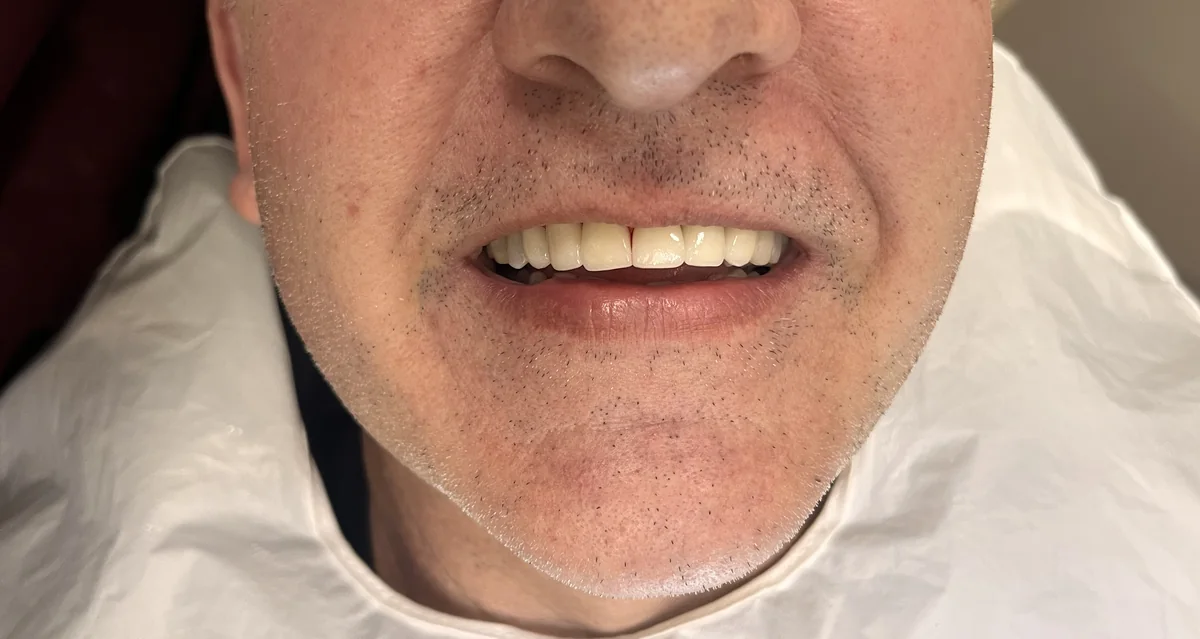
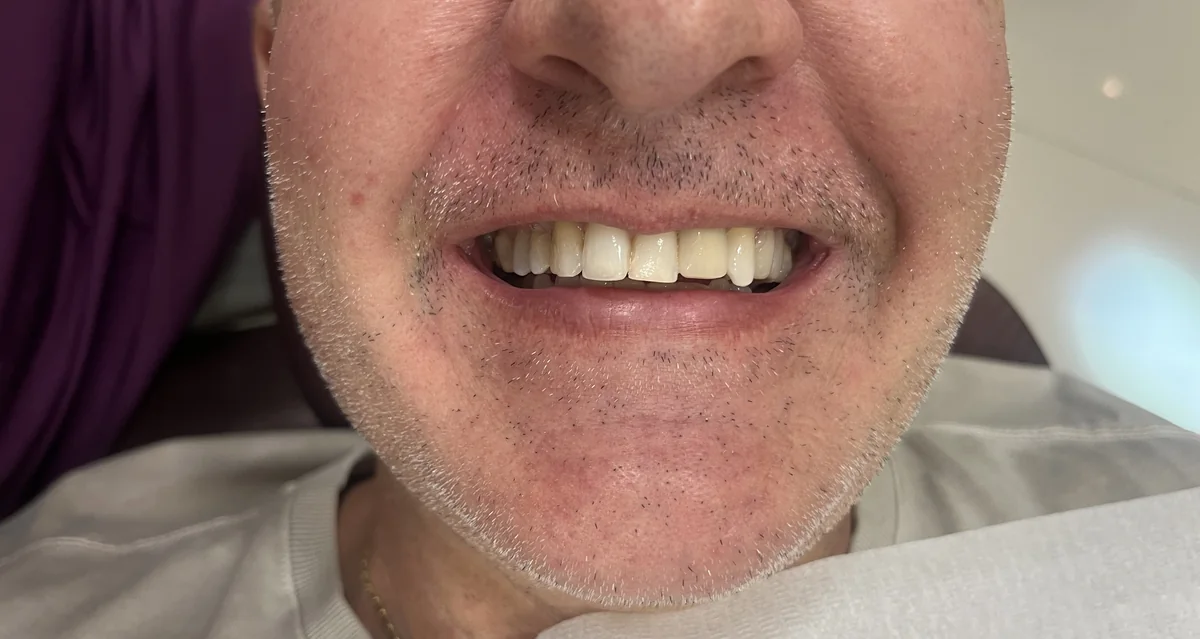
Caso 8 (posição 10): antes e depois estavam invertidos
Troca antes e depois nas duas fotos do caso e ajusta o texto.
Imagens e cache offline vão para a v4.

diff --git a/sw.js b/sw.js
@@ -2,51 +2,51 @@
    Guarda a página e as fotos no aparelho para abrir mesmo sem internet.
    Ao trocar ou incluir fotos, aumente o número da versão abaixo,
    o ?v= das fotos em assets/js/app.js e acrescente os arquivos novos na lista. */
-const VERSION = 'resultados-v3';
+const VERSION = 'resultados-v4';
 const FILES = [
   './',
   'index.html',
   'manifest.webmanifest',
   'assets/css/style.css?v=2',
-  'assets/js/app.js?v=3',
+  'assets/js/app.js?v=4',
   'assets/brand/vetor-lockup-horizontal-branco.svg',
   'assets/brand/vetor-simbolo-rosa.svg',
   'icons/apple-touch-icon.png',
   'icons/icon-192.png',
-  'assets/img/caso-01-2-antes.webp?v=3',
-  'assets/img/caso-01-2-depois.webp?v=3',
-  'assets/img/caso-01-antes.webp?v=3',
-  'assets/img/caso-01-depois.webp?v=3',
-  'assets/img/caso-02-2-antes.webp?v=3',
-  'assets/img/caso-02-2-depois.webp?v=3',
-  'assets/img/caso-02-antes.webp?v=3',
-  'assets/img/caso-02-depois.webp?v=3',
-  'assets/img/caso-03-2-antes.webp?v=3',
-  'assets/img/caso-03-2-depois.webp?v=3',
-  'assets/img/caso-03-antes.webp?v=3',
-  'assets/img/caso-03-depois.webp?v=3',
-  'assets/img/caso-04-antes.webp?v=3',
-  'assets/img/caso-04-depois.webp?v=3',
-  'assets/img/caso-06-antes.webp?v=3',
-  'assets/img/caso-06-depois.webp?v=3',
-  'assets/img/caso-07-antes.webp?v=3',
-  'assets/img/caso-07-depois.webp?v=3',
-  'assets/img/caso-08-2-antes.webp?v=3',
-  'assets/img/caso-08-2-depois.webp?v=3',
-  'assets/img/caso-08-antes.webp?v=3',
-  'assets/img/caso-08-depois.webp?v=3',
-  'assets/img/caso-09-antes.webp?v=3',
-  'assets/img/caso-09-depois.webp?v=3',
-  'assets/img/caso-10-2-antes.webp?v=3',
-  'assets/img/caso-10-2-depois.webp?v=3',
-  'assets/img/caso-10-antes.webp?v=3',
-  'assets/img/caso-10-depois.webp?v=3',
-  'assets/img/caso-11-2-antes.webp?v=3',
-  'assets/img/caso-11-2-depois.webp?v=3',
-  'assets/img/caso-11-antes.webp?v=3',
-  'assets/img/caso-11-depois.webp?v=3',
-  'assets/img/caso-12-antes.webp?v=3',
-  'assets/img/caso-12-depois.webp?v=3'
+  'assets/img/caso-01-2-antes.webp?v=4',
+  'assets/img/caso-01-2-depois.webp?v=4',
+  'assets/img/caso-01-antes.webp?v=4',
+  'assets/img/caso-01-depois.webp?v=4',
+  'assets/img/caso-02-2-antes.webp?v=4',
+  'assets/img/caso-02-2-depois.webp?v=4',
+  'assets/img/caso-02-antes.webp?v=4',
+  'assets/img/caso-02-depois.webp?v=4',
+  'assets/img/caso-03-2-antes.webp?v=4',
+  'assets/img/caso-03-2-depois.webp?v=4',
+  'assets/img/caso-03-antes.webp?v=4',
+  'assets/img/caso-03-depois.webp?v=4',
+  'assets/img/caso-04-antes.webp?v=4',
+  'assets/img/caso-04-depois.webp?v=4',
+  'assets/img/caso-06-antes.webp?v=4',
+  'assets/img/caso-06-depois.webp?v=4',
+  'assets/img/caso-07-antes.webp?v=4',
+  'assets/img/caso-07-depois.webp?v=4',
+  'assets/img/caso-08-2-antes.webp?v=4',
+  'assets/img/caso-08-2-depois.webp?v=4',
+  'assets/img/caso-08-antes.webp?v=4',
+  'assets/img/caso-08-depois.webp?v=4',
+  'assets/img/caso-09-antes.webp?v=4',
+  'assets/img/caso-09-depois.webp?v=4',
+  'assets/img/caso-10-2-antes.webp?v=4',
+  'assets/img/caso-10-2-depois.webp?v=4',
+  'assets/img/caso-10-antes.webp?v=4',
+  'assets/img/caso-10-depois.webp?v=4',
+  'assets/img/caso-11-2-antes.webp?v=4',
+  'assets/img/caso-11-2-depois.webp?v=4',
+  'assets/img/caso-11-antes.webp?v=4',
+  'assets/img/caso-11-depois.webp?v=4',
+  'assets/img/caso-12-antes.webp?v=4',
+  'assets/img/caso-12-depois.webp?v=4'
 ];
 
 self.addEventListener('install', e => {

diff --git a/assets/js/app.js b/assets/js/app.js
@@ -44,14 +44,14 @@
     { id: 'caso-03', tag: 'Facetas', title: 'Dentes fraturados, sorriso inteiro.',
       text: 'Os dentes da frente, fraturados e desgastados, foram restaurados com facetas. Forma e cor devolvidas com precisão.',
       views: [{ src: 'caso-03', w: 1200, h: 600 }, { src: 'caso-03-2', w: 1200, h: 458 }] },
-    { id: 'caso-08', tag: 'Facetas', title: 'Mais claro, com a cara dele.',
-      text: 'Dentes amarelados e com desgaste receberam facetas com cor e formato planejados para o rosto do paciente. Um sorriso mais claro, sem perder a naturalidade.',
+    { id: 'caso-08', tag: 'Facetas', title: 'Mais uniforme, com a cara dele.',
+      text: 'Facetas com cor, forma e tamanho planejados para o rosto do paciente deixaram o sorriso mais uniforme e harmônico, sem perder a naturalidade.',
       views: [{ src: 'caso-08', w: 1200, h: 639 }, { src: 'caso-08-2', w: 1200, h: 644 }] },
     { id: 'caso-09', tag: 'Facetas', title: 'Forma e proporção refeitas.',
       text: 'Os dentes da frente ganharam facetas com forma e tamanho redesenhados, deixando o sorriso mais uniforme e equilibrado.',
       views: [{ src: 'caso-09', w: 1200, h: 660 }] }
   ];
-  const img = (v, lado) => `assets/img/${v.src}-${lado}.webp?v=3`;
+  const img = (v, lado) => `assets/img/${v.src}-${lado}.webp?v=4`;
 
   const ba = $('#ba');
   const stage = $('#stage');

diff --git a/index.html b/index.html
@@ -81,6 +81,6 @@
   </div>
 </main>
 
-<script src="assets/js/app.js?v=3"></script>
+<script src="assets/js/app.js?v=4"></script>
 </body>
 </html>
